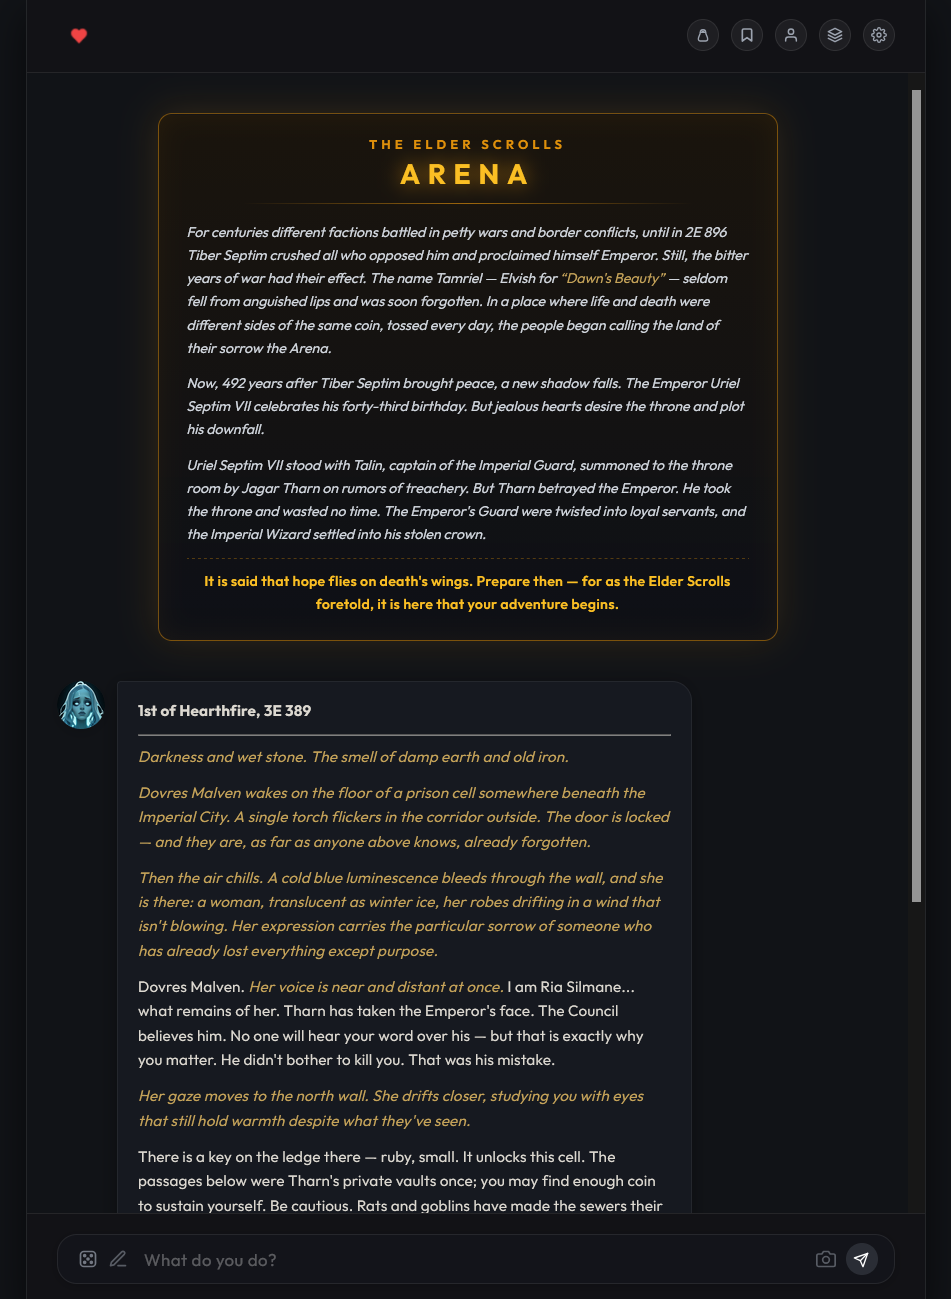
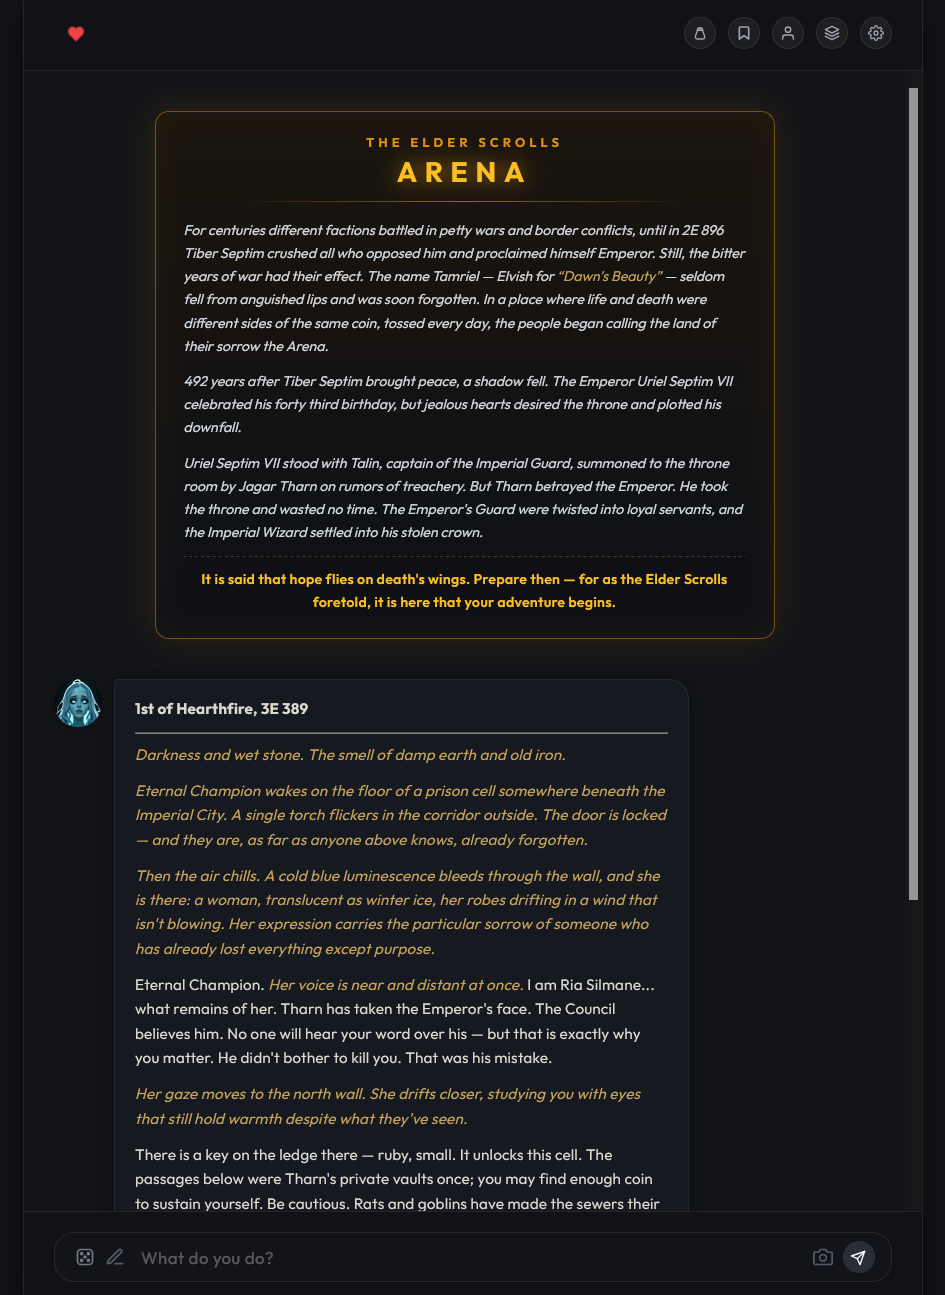
Harmonize prologue lore tense and update sample chat asset

diff --git a/static/js/arena.js b/static/js/arena.js
@@ -4668,7 +4668,7 @@ function renderOpeningLoreCard() {
             <div class="opening-lore-divider"></div>
             <div class="opening-lore-body">
                 <p>For centuries different factions battled in petty wars and border conflicts, until in 2E 896 Tiber Septim crushed all who opposed him and proclaimed himself Emperor. Still, the bitter years of war had their effect. The name Tamriel — Elvish for <em>&ldquo;Dawn's Beauty&rdquo;</em> — seldom fell from anguished lips and was soon forgotten. In a place where life and death were different sides of the same coin, tossed every day, the people began calling the land of their sorrow the Arena.</p>
-                <p>Now, 492 years after Tiber Septim brought peace, a new shadow falls. The Emperor Uriel Septim VII celebrates his forty-third birthday. But jealous hearts desire the throne and plot his downfall.</p>
+                <p>492 years after Tiber Septim brought peace, a shadow fell. The Emperor Uriel Septim VII celebrated his forty third birthday, but jealous hearts desired the throne and plotted his downfall.</p>
                 <p>Uriel Septim VII stood with Talin, captain of the Imperial Guard, summoned to the throne room by Jagar Tharn on rumors of treachery. But Tharn betrayed the Emperor. He took the throne and wasted no time. The Emperor's Guard were twisted into loyal servants, and the Imperial Wizard settled into his stolen crown.</p>
                 <p class="opening-lore-climax">It is said that hope flies on death's wings. Prepare then — for as the Elder Scrolls foretold, it is here that your adventure begins.</p>
             </div>
